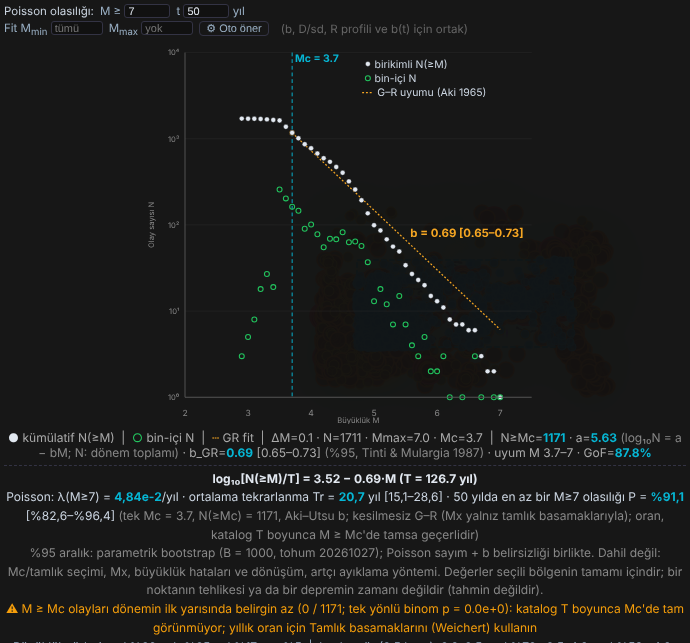
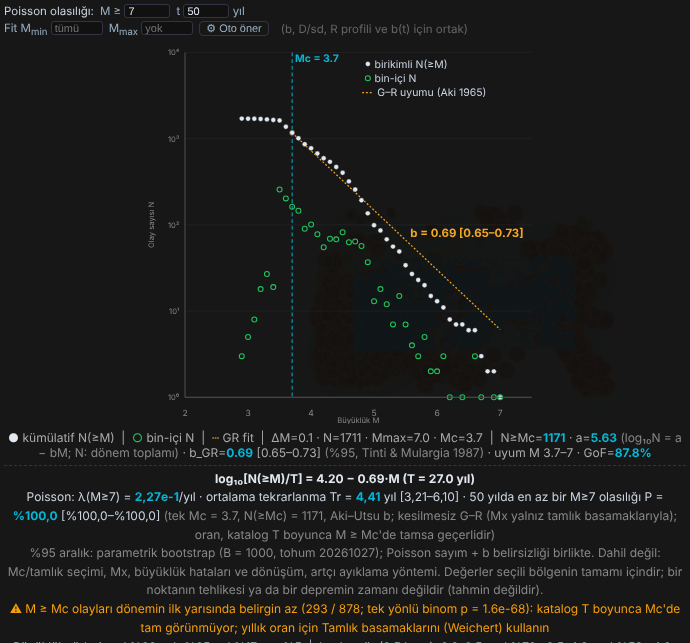
Poisson: GK74 uyarısı nötr metin; kapsama oranlarına Wilson %95 aralığı; kabul testi pencere düzeltmesine göre (32/32)
- GK74 kapalı uyarısı: bağımsız olay varsayımı daha az uygun olabilir; oran ve b birlikte değişir, olasılığın yönü önceden belli değil
- test_poisson_prob.js: kapsama oranları Wilson aralığıyla (%94,0 [89,8–96,5]; %95,5 [91,7–97,6]; Mc'de yalnız b %3,0 [1,4–6,4])
- kabul_poisson.js: önce = tarihsel-pencere-T; tek Mc T = 27,0 yıl; ilk yarı boşken tamlık uyarısı
- RAPOR güncelleme 2: gözlenen/öngörülen karşılaştırması (tek Mc büyük M oranını abartıyor; öneri §4), atıf düzeltmesi

Claude-Session: https://claude.ai/code/session_01UNMkcWFv5QgcQmvZTMC63m

Changed region(s): [[0.0, 0.7154, 1.0, 0.8398], [0.0, 0.9331, 1.0, 0.9953]]

diff --git a/scripts/test_poisson_prob.js b/scripts/test_poisson_prob.js
@@ -22,6 +22,8 @@ const X = ctx;
 let pass = 0, fail = 0;
 const ok = (c, m) => { if (c) pass++; else fail++; console.log((c ? '  ok  ' : '  !!  ') + m); };
 const near = (a, b, tol) => Math.abs(a - b) <= tol;
+// Kapsama oranının kendi %95 aralığı (Wilson): k / R deneme
+const wilson = (k, R) => { const z = 1.96, p = k / R, d = 1 + z * z / R, c = (p + z * z / (2 * R)) / d, h = z * Math.sqrt(p * (1 - p) / R + z * z / (4 * R * R)) / d; return `%${(100 * p).toFixed(1)} [%${(100 * (c - h)).toFixed(1)}–%${(100 * (c + h)).toFixed(1)}]`; };
 
 console.log('\n1. Analitik');
 ok(near(X.grPoissonP(0.01, 50), 1 - Math.exp(-0.5), 1e-15), `λ = 0,01/yıl, t = 50 → P = ${X.grPoissonP(0.01, 50).toFixed(6)} (1 − e^−0,5 = 0,393469)`);
@@ -60,7 +62,7 @@ console.log('\n3. Sentetik katalog — tek Mc (λ0 = 2/yıl, M ≥ 3,0; b = 1; T
   }
   const mLog = est.reduce((a, v) => a + v, 0) / R, mP = pe.reduce((a, v) => a + v, 0) / R;
   console.log(`     gerçek λ(≥6) = ${lamTrue.toExponential(3)}/yıl, P(50) = ${pTrue.toFixed(4)}; kestirim: ortalama log10 λ = ${mLog.toFixed(3)} (gerçek ${Math.log10(lamTrue).toFixed(3)}), ortalama P = ${mP.toFixed(4)}`);
-  console.log(`     bootstrap %95 kapsaması (${R} katalog): λ ${(100 * cov / R).toFixed(1)}%, P ${(100 * covP / R).toFixed(1)}%`);
+  console.log(`     bootstrap %95 kapsaması (${R} katalog, her biri B = 400; köşeli parantez: kapsama oranının Wilson %95 aralığı): λ ${wilson(cov, R)}, P ${wilson(covP, R)}`);
   ok(Math.abs(mLog - Math.log10(lamTrue)) < 0.05, 'λ(≥6) log ölçekte yansız (|fark| < 0,05)');
   ok(cov / R >= 0.90 && cov / R <= 0.99 && covP / R >= 0.90 && covP / R <= 0.99, 'bootstrap aralığı nominal %95 kapsamaya yakın (%90–99)');
   // Yalnız b'nin ±1,96σ aralığı (sayım belirsizliği yok): M = 6'da (3 birim dışdeğerleme) b baskındır; Mc'de (M = 3,0) b aralığı tek noktaya çöker, yalnız sayım belirsizliği kalır.
@@ -72,7 +74,7 @@ console.log('\n3. Sentetik katalog — tek Mc (λ0 = 2/yıl, M ≥ 3,0; b = 1; T
     if (l6 <= lamTrue && lamTrue <= h6) covB6++; if (l35 <= lamTrue2 && lamTrue2 <= h35) covB35++;
     const ci = X.grPoissonBootSimple(n, T, bh, Mc, dm, M2, t, { B: 400, seed: 3000 + r }); if (ci.lamLo <= lamTrue2 && lamTrue2 <= ci.lamHi) covBoot35++;
   }
-  console.log(`     yalnız b aralığı kapsaması: M ≥ 6 → ${(100 * covB6 / R).toFixed(1)}% (b baskın); M ≥ 3,0 (= Mc) → ${(100 * covB35 / R).toFixed(1)}%; ortak bootstrap M ≥ 3,0 → ${(100 * covBoot35 / R).toFixed(1)}%`);
+  console.log(`     yalnız b aralığı kapsaması: M ≥ 6 → ${wilson(covB6, R)} (b baskın); M ≥ 3,0 (= Mc) → ${wilson(covB35, R)}; ortak bootstrap M ≥ 3,0 → ${wilson(covBoot35, R)}`);
   ok(covB35 / R < 0.85 && covBoot35 / R >= 0.90, 'Mc düzeyinde yalnız b aralığı sayım belirsizliğini kaçırır; sayım bileşenli bootstrap nominale yakın (ChatGPT notu: b aralığı tek başına yetmez)'); }
 
 console.log('\n4. Sentetik katalog — Weichert, değişken tamlık (M ≥ 3: son 30 yıl; M ≥ 4: 80 yıl; M ≥ 5: 200 yıl; λ(≥3) = 5/yıl; b = 1)');
@@ -88,7 +90,7 @@ console.log('\n4. Sentetik katalog — Weichert, değişken tamlık (M ≥ 3: so
     est.push(Math.log10(lam)); if (ci.lamLo <= lamTrue && lamTrue <= ci.lamHi) cov++; if (ci.pLo <= pTrue && pTrue <= ci.pHi) covP++;
   }
   const mLog = est.reduce((a, v) => a + v, 0) / est.length;
-  console.log(`     gerçek λ(≥6,5) = ${lamTrue.toExponential(3)}/yıl, P(50) = ${pTrue.toFixed(4)}; ortalama log10 λ = ${mLog.toFixed(3)} (gerçek ${Math.log10(lamTrue).toFixed(3)}); kapsama λ ${(100 * cov / R).toFixed(1)}%, P ${(100 * covP / R).toFixed(1)}%`);
+  console.log(`     gerçek λ(≥6,5) = ${lamTrue.toExponential(3)}/yıl, P(50) = ${pTrue.toFixed(4)}; ortalama log10 λ = ${mLog.toFixed(3)} (gerçek ${Math.log10(lamTrue).toFixed(3)}); kapsama (${R} katalog, B = 400) λ ${wilson(cov, R)}, P ${wilson(covP, R)}`);
   ok(Math.abs(mLog - Math.log10(lamTrue)) < 0.05, 'Weichert λ(≥6,5) log ölçekte yansız');
   ok(cov / R >= 0.90 && cov / R <= 0.99 && covP / R >= 0.90 && covP / R <= 0.99, 'Weichert bootstrap aralığı nominal %95 kapsamaya yakın (%90–99)'); }
 

diff --git a/analysis/poisson_olasilik/kabul_poisson.js b/analysis/poisson_olasilik/kabul_poisson.js
@@ -66,6 +66,8 @@ const ADIM = [   // [ad, işlem]
   ['weichert_gk74kapali', async p => p.evaluate(async () => { await __gk(false); })],
   ['weichert_mx75_M7', async p => p.evaluate(() => { __set('grMx', '7.5'); })],
   ['weichert_mx75_M8', async p => p.evaluate(() => { __set('grPM', '8'); })],
+  // Tamlık denetimi: pencerenin ilk yarısı boşsa uyarı (seçili pencere 1971–1997 iken 1900'den başlatılmış gibi; yalnız test için)
+  ['tekMc_ilkYariBos', async p => p.evaluate(() => { __cs(false); __set('grMx', ''); __set('grPM', '7'); regionWindowStart = new Date('1900-01-01T00:00:00Z'); renderTimeMag([...events, ...liveEvents]); })],
 ];
 const GORUNTU = { tekMc_gk74kapali: 'poisson_tekMc_gk74kapali.png', tekMc_gk74acik: 'poisson_tekMc_gk74acik.png', weichert_gk74kapali: 'poisson_weichert.png', weichert_mx75_M8: 'poisson_weichert_mx.png' };
 (async () => {
@@ -85,7 +87,7 @@ const GORUNTU = { tekMc_gk74kapali: 'poisson_tekMc_gk74kapali.png', tekMc_gk74ac
   }
   const O = S.once, Y = S.sonra;
   // (1) mevcut çıktılar değişmedi
-  for (const [k] of ADIM) {
+  for (const [k] of ADIM.filter(([k]) => k !== 'tekMc_ilkYariBos')) {
     // Beklenen tek metin farkı: tek Mc panelinde a'nın tanımı (Ham modda değer aynı, yalnız tanım eklendi)
     const ETIKET = ' (log₁₀N = a − bM; N: dönem toplamı)', yM = Y[k].metin.replace(ETIKET, '');
     const sv = O[k].svg === Y[k].svg, mt = O[k].metin === yM;
@@ -108,6 +110,12 @@ const GORUNTU = { tekMc_gk74kapali: 'poisson_tekMc_gk74kapali.png', tekMc_gk74ac
     ok(q && q.path === 'weichert' && same && y.pois.includes(`P = %${pct(P(lam, q.t))}`),
       `(2) ${k}: λ(≥${q.M}) = ${lam === 0 ? '0' : lam.toExponential(3)}/yıl = panel en iyi tahmin eğrisi (lastGrFit.fnBest)${q.mx !== null ? `, Mx = ${q.mx}` : ''}; P = %${pct(P(lam, q.t))} ekranda; b = ${q.b.toFixed(3)}, m₀ = ${q.m0}`);
   }
+  // Tarihsel pencere (tarihsel-pencere-T düzeltmesiyle): tek Mc T = seçili pencere
+  ok(Math.abs(Y.tekMc_gk74kapali.pois_n.T - 27) < 0.01 && /T = 27\.0 yıl/.test(Y.tekMc_gk74kapali.pois), `(2) Tek Mc T = ${Y.tekMc_gk74kapali.pois_n.T.toFixed(3)} yıl = seçili pencere ISC 1971–1997 (düzeltme öncesi 126,7)`);
+  { const w = s => (s.match(/ilk yarısında belirgin az \(([^)]*)\)/) || [null, null])[1];
+    const a = Y.tekMc_gk74kapali, z = Y.tekMc_ilkYariBos;
+    ok(/ilk yarısında belirgin az \(0 \/ /.test(z.pois), `(2) İlk yarı boş (T 1900'den): tamlık uyarısı "${w(z.pois)}"`);
+    console.log(`     Seçili pencerede (1971–1997) tamlık denetimi: ${w(a.pois) ? 'uyarı "' + w(a.pois) + '" (ISC 1971–1984 dönemi M ≥ Mc = 3,7 için eksik)' : 'uyarı yok'}`); }
   // (3) girdiler
   ok(Y.tekMc_gk74kapali.pois_n.M === 7 && Y.tekMc_gk74kapali.pois_n.t === 50, '(3) Varsayılan M ≥ 7, t = 50 yıl');
   ok(Y.tekMc_M6_t75.pois_n.M === 6 && Y.tekMc_M6_t75.pois_n.t === 75 && /pm=6/.test(Y.tekMc_M6_t75.url) && /pt=75/.test(Y.tekMc_M6_t75.url), `(3) M = 6, t = 75 girdisi uygulandı ve URL'ye yazıldı (${Y.tekMc_M6_t75.url.match(/p[mt]=[^&]*/g).join(', ')})`);

diff --git a/index.html b/index.html
@@ -3691,7 +3691,7 @@ function renderGutenbergRichter(evList, Mc) {
       const { M: pM, t: pT } = grPoisInputs(), g = lastGrSimple, aT = g.a - Math.log10(Tp);
       const lam = grLambdaSimple(g.n, Tp, g.b, g.mc, pM), ci = grPoissonBootSimple(g.n, Tp, g.b, g.mc, tmMagDM, pM, pT);
       const warns = [];
-      if (!(typeof regionDeclusterOn !== 'undefined' && regionDeclusterOn && regionRect)) warns.push('GK74 artçı ayıklama kapalı: Poisson modeli bağımsız ana şokları varsayar; artçılar oranı ve olasılığı olduğundan yüksek gösterebilir');
+      if (!(typeof regionDeclusterOn !== 'undefined' && regionDeclusterOn && regionRect)) warns.push('GK74 artçı ayıklama kapalı: Poisson modelinin bağımsız olay varsayımı daha az uygun olabilir; ayıklamanın oran ve b üzerindeki etkisi veri kümesine göre değişir (ikisi birlikte değişir, olasılığın yönü önceden belli değildir)');
       const hs = grHalfSplitTest(evList.filter(e => (e.mw ?? e.mag) >= g.mc - 1e-9).map(e => +new Date(e.time)).filter(Number.isFinite), tP0, tP1);
       if (hs.n >= 10 && hs.p < GR_POIS.halfAlpha) warns.push(`M ≥ Mc olayları dönemin ilk yarısında belirgin az (${hs.n1} / ${hs.n2}; tek yönlü binom p = ${hs.p < 1e-4 ? hs.p.toExponential(1) : hs.p.toFixed(4)}): katalog T boyunca Mc'de tam görünmüyor; yıllık oran için Tamlık basamaklarını (Weichert) kullanın`);
       lastGrPois = { path: 'tekMc', lam, ci, M: pM, t: pT, T: Tp, n: g.n, b: g.b, mc: g.mc, warns: warns.slice() };
@@ -6069,7 +6069,7 @@ function renderGutenbergRichterCS(cs) {
     const lamOf = f => grLambdaWeichert(rateGE(f.rate0, f.beta, Mx, clsBest), f.beta, m0, pM, Mx);
     const lam = lamOf(wf), ci = grPoissonBootWeichert(clsBest, wf, lamOf, pT), aW = Math.log10(rate0Best) + wf.b * m0;
     const warns = [];
-    if (!(typeof regionDeclusterOn !== 'undefined' && regionDeclusterOn && regionRect)) warns.push('GK74 artçı ayıklama kapalı: Poisson modeli bağımsız ana şokları varsayar; artçılar oranı ve olasılığı olduğundan yüksek gösterebilir');
+    if (!(typeof regionDeclusterOn !== 'undefined' && regionDeclusterOn && regionRect)) warns.push('GK74 artçı ayıklama kapalı: Poisson modelinin bağımsız olay varsayımı daha az uygun olabilir; ayıklamanın oran ve b üzerindeki etkisi veri kümesine göre değişir (ikisi birlikte değişir, olasılığın yönü önceden belli değildir)');
     if (fitOn && (pM < m0 - 1e-9)) warns.push(`M ≥ ${pM} fit aralığının (M ${m0.toFixed(1)}–${mTopFit.toFixed(1)}) altında`);
     lastGrPois = { path: 'weichert', lam, ci, M: pM, t: pT, mx: Mx, m0, rate0: rate0Best, b: wf.b, warns: warns.slice() };
     poisHtml = grPoissonHtml({ eq: Mx === null ? `log₁₀λ(≥M) = ${aW.toFixed(2)} − ${wf.b.toFixed(2)}·M (Weichert; λ: yıllık oran)` : `λ(≥M) = λ₀·[e^(−β(M−m₀)) − e^(−β(Mx−m₀))]/[1 − e^(−β(Mx−m₀))], Mx = ${Mx} (kesik G–R; Mx'ten uzakta log₁₀λ ≈ ${aW.toFixed(2)} − ${wf.b.toFixed(2)}·M)`,

diff --git a/analysis/poisson_olasilik/RAPOR.md b/analysis/poisson_olasilik/RAPOR.md
@@ -1,70 +1,89 @@
-# Poisson aşılma olasılığı — doğrulama raporu (2026-10-27)
+# Poisson aşılma olasılığı — doğrulama raporu (2026-10-27, güncelleme 2)
 
-Dal: `bolge-karsilastirma-a-etiketi` (main'e birleştirilmedi; canlıya yayımlanmadı).
+**Dal:** `bolge-karsilastirma-a-etiketi`. Bu dal, tarihsel pencere düzeltmesini (`tarihsel-pencere-T`, 17ca240) içerir. `main`'e birleştirilmedi, canlıya yayımlanmadı.
+
+**Güncelleme 2'de değişenler:**
+- Tarihsel pencere düzeltmesi dala birleştirildi.
+- GK74 uyarı metni nötr hale getirildi.
+- Kapsama oranlarına Wilson %95 aralığı ve test parametreleri eklendi.
+- Kabul testinin "önce" sayfası artık `tarihsel-pencere-T`. Böylece yalnızca Poisson değişikliği karşılaştırılıyor.
+- Gözlenen ve öngörülen sayılar karşılaştırıldı (§4).
 
 ## 1. Ne eklendi
-
-G–R panelinin altına, iki yolda da, bir Poisson satırı eklendi:
 
 | Öğe | Tek Mc (Aki–Utsu) | Tamlık basamakları (Weichert 1980) |
 |---|---|---|
 | Denklem | log₁₀[N(≥M)/T] = a_T − b·M | log₁₀λ(≥M) = a − b·M; Mx girildiyse kesik G–R (Eş. 14) |
-| λ(≥M) | N(≥Mc)/T · 10^(−b(M−Mc)) | panelin en iyi tahmin eğrisi (`rateGE` + `curveFn`), aynı fonksiyon |
+| λ(≥M) | N(≥Mc)/T · 10^(−b(M−Mc)) | panelin en iyi tahmin eğrisi (`rateGE` + `curveFn`) |
 | P(t), Tr | P = 1 − e^(−λt) (`expm1`), Tr = 1/λ | aynı |
-| Mx | uygulanmaz (kesilmesiz) | panel girdisi; M ≥ Mx → λ = 0 |
-| %95 aralık | parametrik bootstrap: n* ~ Poisson(n), büyüklükler β̂ ile, b* = Aki–Utsu | n_i* ~ Poisson(beklenen n_i), Weichert yeniden fit |
+| T | seçili analiz penceresi; tarihsel modda seçili tarihsel pencere(ler) | tamlık dönemleri (aynı pencere sonuyla) |
+| %95 aralık | parametrik bootstrap: n* ~ Poisson(n); büyüklükler β̂ ile; b* Aki–Utsu ile | n_i* ~ Poisson(beklenen n_i); Weichert yeniden fit |
 
-- Girdiler: M ≥ (varsayılan 7,0) ve t (varsayılan 50 yıl). İkisi de URL'ye yazılır (`pm`, `pt`).
+**Ayarlar ve girdiler:**
 - Bootstrap: B = 1000, tohum 20261027, tekrarlanabilir.
+- Girdiler: M ≥ (varsayılan 7,0) ve t (varsayılan 50 yıl). İkisi de URL'ye yazılır (`pm`, `pt`).
 
 **Uyarılar:**
-- GK74 kapalı.
-- M gözlenen en büyük büyüklüğün üstünde: ekstrapolasyon.
+- GK74 kapalı. Yeni metin: "Poisson modelinin bağımsız olay varsayımı daha az uygun olabilir; ayıklamanın oran ve b üzerindeki etkisi veri kümesine göre değişir (ikisi birlikte değişir, olasılığın yönü önceden belli değildir)".
+- Ekstrapolasyon: M gözlenen en büyük büyüklüğün üstünde.
 - M ≥ Mx.
-- M fit aralığının altında (Weichert).
-- Tek Mc'de tamlık denetimi: tek yönlü binom, M ≥ Mc olaylarının dönemin ilk yarısında az olması, p < 0,01.
+- M fit aralığının altında.
+- Tek Mc tamlık denetimi: dönemin ilk yarısında M ≥ Mc olayları az (tek yönlü binom testi, p < 0,01).
 
 **Metinde açıkça yazanlar:**
 - Belirsizlik kapsamı: Poisson sayımı ve b birlikte.
 - Kapsam dışı: Mc/tamlık seçimi, Mx, büyüklük hataları ve dönüşüm, artçı ayıklama yöntemi.
 - Değerler seçili bölgenin tamamı içindir; bir noktanın tehlikesi ya da bir depremin zamanı değildir.
 
-**Başka değişiklikler:**
-- Tek Mc panelinde `a`, gösterim moduna göre tanımıyla yazılıyor (Ham modda değer aynı).
-- Sayısal değerler `lastGrPois` değişkeninde tutuluyor (doğrulama için; gösterimi etkilemez).
-- Hesap yöntemlerine (b, Weichert, Mc, GK74) dokunulmadı.
+## 2. Birim testleri: `scripts/test_*.js`, 15/15
 
-## 2. Testler
+Yeni test `test_poisson_prob.js` (15 denetim).
 
-**Birim testleri** (`scripts/test_*.js`): 15/15 geçti. 14 eski test ve 1 yeni test (`test_poisson_prob.js`, 15 denetim).
+**Analitik ve tutarlılık:**
+- λ = 0,01 ve t = 50 → P = 0,393469 (= 1 − e^−0,5).
+- λ = 1e−12 → P ≈ λt.
+- t = Tr → P = 0,632.
+- Tek Mc'de λ = 10^(a−bM)/T (göreli fark 1e−15).
+- Weichert'te λ = panel eğrisi, kesilmesiz ve Mx = 7,5 iken (fark 0).
 
-| Denetim | Sonuç |
+**Sentetik katalog parametreleri:**
+
+| Deney | Gerçek model | Katalog | Hedef |
+|---|---|---|---|
+| A: tek Mc | λ(≥3,0) = 2/yıl, b = 1, ΔM = 0,1 | T = 60 yıl, 200 katalog, her biri B = 400 | λ(≥6), P(50 yıl) |
+| B: Weichert | λ(≥3,0) = 5/yıl, b = 1, ΔM = 0,1; tamlık M ≥ 3 son 30 yıl, M ≥ 4 80 yıl, M ≥ 5 200 yıl | 200 katalog, B = 400 | λ(≥6,5), P(50 yıl) |
+
+**Sonuçlar** (köşeli parantez: kapsama oranının Wilson %95 aralığı, 200 katalog):
+
+| Ölçüt | Sonuç |
 |---|---|
-| Analitik: λ = 0,01, t = 50 → P = 0,393469 = 1 − e^−0,5; λ = 1e−12'de P ≈ λt (expm1); t = Tr → P = 0,632 | geçti |
-| Tek Mc λ = 10^(a−bM)/T (panel a ile) | göreli fark 1,3e−15 |
-| Weichert λ = panel eğrisi (kesilmesiz ve Mx = 7,5) | fark 0 |
-| Sentetik, tek Mc (λ₀ = 2/yıl, b = 1, T = 60 yıl, 200 katalog): log₁₀λ(≥6) ortalaması | −2,722 (gerçek −2,699) |
-| Aynı katalog: bootstrap %95 kapsaması, λ ve P | %94,0 / %94,0 |
-| Sentetik, Weichert (3 tamlık basamağı, 200 katalog): log₁₀λ(≥6,5) ortalaması | −2,788 (gerçek −2,801) |
-| Aynı katalog: bootstrap %95 kapsaması | %95,5 |
-| Yalnız b'nin ±1,96σ aralığı: M = 6'da / M = Mc'de | %96 / **%3** |
-| Aynı karşılaştırmada ortak bootstrap, M = Mc'de | %96,5 |
-| Binom tamlık denetimi: kesin değer 1/1024; tekdüze katalog → uyarı yok; başı eksik katalog → uyarı | geçti |
+| A: log₁₀λ(≥6) ortalaması | −2,722 (gerçek −2,699) |
+| A: bootstrap kapsaması, λ ve P | %94,0 [%89,8–%96,5] |
+| B: log₁₀λ(≥6,5) ortalaması | −2,788 (gerçek −2,801) |
+| B: bootstrap kapsaması, λ ve P | %95,5 [%91,7–%97,6] |
+| A: yalnız b ±1,96σ aralığı, M = 6 | %96,0 [%92,3–%98,0] |
+| A: yalnız b ±1,96σ aralığı, M = Mc | **%3,0 [%1,4–%6,4]** |
+| A: ortak bootstrap, M = Mc | %96,5 [%93,0–%98,3] |
 
-Yalnız b aralığıyla ilgili satırın anlamı: Mc'den uzakta b belirsizliği baskın olduğu için yalnız b aralığı yeterli kapsıyor. Mc yakınında ise sayım belirsizliği baskındır ve yalnız b aralığı bunu kaçırır. ChatGPT'nin "b aralığı tek başına yetmez" notu nicel olarak doğrulandı.
+Üç bootstrap kapsamasının da aralığı %95'i içeriyor. Yalnız b'ye dayalı aralık Mc'den uzakta yeterli, ama Mc yakınında sayım belirsizliğini kaçırıyor.
 
-**Tarayıcı kabul testi** (`kabul_poisson.js`): 30/30 geçti.
-- Senaryo: Türkiye modu, ISC 1971–1997, dikdörtgen bölge 36–42° K / 26–45° D.
-- Önce = `main` 543ac56, sonra = bu dal.
+Kapsam sınırı: Bu deneylerde model doğrudur. Yani G–R, Poisson, bilinen tamlık ve hatasız büyüklük varsayılıyor. Gerçek kataloglardaki tamlık hatası, büyüklük hatası ve kümelenme bu kapsamaya dahil değildir (§4).
+
+## 3. Tarayıcı kabul testi: `kabul_poisson.js`, 32/32
+
+- Senaryo: Türkiye modu, ISC 1971–1997, dikdörtgen 36–42° K / 26–45° D.
+- Önce: `tarihsel-pencere-T` (main + pencere düzeltmesi). Sonra: bu dal.
 
 | Koşul | Sonuç |
 |---|---|
-| (1) G–R grafiği (SVG) önce = sonra, 8 senaryoda | aynı |
-| (1) Poisson satırı ve a tanımı dışındaki metin önce = sonra (tek Mc / Weichert; GK74 açık/kapalı; Mx boş/7,5) | aynı |
-| (2) λ bağımsız yeniden hesapla aynı; ekrandaki P yüzdesi 1 − e^(−λt) ile aynı | tek Mc fark ≤ 1e−16; Weichert = `lastGrFit.fnBest` |
-| (3) Varsayılan M = 7, t = 50; girdi değişince güncelleniyor ve URL'ye yazılıyor | geçti |
-| (4) GK74 uyarısı kapalıyken var, açıkken yok; M = 8,5 ekstrapolasyon; Mx = 7,5 ve M = 8 → λ = 0, P = %0,0 | geçti |
-| (5) Bölge bütünü / tahmin değildir notu ve belirsizlik kapsamı iki yolda da var | geçti |
+| (1) G–R grafiği ve Poisson satırı dışındaki metin önce = sonra (8 senaryo) | aynı; tek fark a'nın tanımı (değeri aynı) |
+| (2) Tek Mc λ = N(≥Mc)/T·10^(−b(M−Mc)) | göreli fark ≤ 2e−16; T = 27,001 yıl (seçili pencere) |
+| (2) Weichert λ = `lastGrFit.fnBest` | birebir; Mx = 7,5 ve M = 8 → λ = 0 |
+| (2) Ekrandaki P yüzdesi 1 − e^(−λt) ile aynı | aynı |
+| (2) Pencerenin ilk yarısı boşken tamlık uyarısı | "0 / 2200; p = 0" (benzetim: T 1900'den) |
+| (3) Varsayılan M = 7, t = 50; girdi URL'ye yazılıyor | geçti |
+| (4) GK74 uyarısı kapalıyken var, açıkken yok; ekstrapolasyon; M ≥ Mx | geçti |
+| (5) Bölge bütünü / tahmin değildir notu ve belirsizlik kapsamı | iki yolda da var |
 | Sayfa hatası | 0 |
 
 Ekran görüntüleri:
@@ -73,73 +92,57 @@ Ekran görüntüleri:
 - `poisson_weichert.png`
 - `poisson_weichert_mx.png`
 
-## 3. Bulunan mevcut hata — tarihsel modda analiz penceresi (bu dalda düzeltilmedi; onay gerekir)
+## 4. Gözlenen ve öngörülen sayılar (aynı senaryo, T = 27 yıl)
 
-### Sorun
+| | Gözlenen (1971–1997) | Tek Mc (Mc = 3,7, b = 0,77) | Weichert (b = 0,947) |
+|---|---|---|---|
+| N(M ≥ 6) / yıl | 13 olay → 0,48 | 1,36 | — |
+| N(M ≥ 7) / yıl | 1 olay (1976 Çaldıran, Mw 7,0) → 0,037 [Poisson %95: 0,0009–0,21] | 0,23 [0,18–0,29] | 0,097 |
+| P(50 yıl, M ≥ 7) | — | %100,0 | %99,2 |
 
-Tarihsel katalog modunda bölge sorgusu analiz penceresini tüm katalogdan alıyor (`index.html` ~8724):
-`regionWindowStart/End = historicalCache.starttime/endtime`, yani 1900-01-01 → 2026-09-14.
-Seçili pencere ise ISC 1971–1997.
+**Tek Mc yolu bu katalogda büyük M oranını açıkça abartıyor.** M ≥ 6 için öngörü gözlenenin yaklaşık 2,8 katı. Nedenleri:
+- Katalog Mc = 3,7'de 1971–1997 boyunca tam değil. Tamlık uyarısı bunu gösteriyor: ilk yarıda 498 / 1702 olay, p = 1,6e−153.
+- Bu yüzden b = 0,77 düşük çıkıyor.
 
-Bu hata main'de de var. Etkilediği yerler:
-- Weichert basamaklarının son dönem sonu (`csBuild` tEnd, ~5058);
-- Oran/Yoğunluk modu T'si (~3540);
-- Bölge karşılaştırması T'si (~3341);
-- bölge bilgi satırındaki yıllık oran (~8446) ve pencere etiketi.
+Panel bu durumda uyarı verip Weichert'i öneriyor. Ancak öngörülen değer yine de ekranda görünüyor.
 
-### Ölçülen etki (yukarıdaki senaryo)
+Weichert öngörüsü (0,097/yıl) tek olayın Poisson aralığı içinde kalıyor. Yine de bu aralık çok geniş; 27 yıllık bir pencere M ≥ 7 oranını sınamaya yetmez.
 
-| Çıktı | Mevcut (pencere 1900–2026) | Doğru pencere (1971–1998) |
-|---|---|---|
-| Weichert son dönem | 1985 → 2026-09-14, M ≥ 4,0 | 1985 → 1998 |
-| Weichert b | 0,805 | **0,947** |
-| Weichert λ(≥4) | 25,2/yıl | **67,3/yıl** |
-| Weichert λ(≥7), P(50 yıl) | 0,0967/yıl, %99,2 | 0,0969/yıl, %99,2 (b ve oranın etkileri burada rastlantısal olarak dengeleniyor) |
-| Tek Mc T | 126,7 yıl | 27,0 yıl |
-| Tek Mc λ(≥7) | 0,049/yıl | 0,228/yıl |
+Öneri (karar sizde): Poisson satırına "gözlenen N(≥M) ile öngörülen λT" karşılaştırmasını ve bunun Poisson p değerini eklemek. Ayrıca tek Mc tamlık uyarısı varken P değerini soluk göstermek ya da gizlemek. Bu, ChatGPT'nin "yanlış oranı doğruymuş gibi sunmamalı" koşulunu veri düzeyinde de karşılar.
 
-Yeni tamlık denetimi bu durumu kendiliğinden yakalıyor: "ilk yarıda 0 / 2200, p ≈ 0" uyarısı (`poisson_tekMc_gk74kapali.png`).
-
-### Önerilen düzeltme
-
-- `rebuildHistoricalView` içinde seçili pencerenin `overallStart`/`endRef` değerleri saklanır.
-- Bölge sorgusunda `regionWindowStart/End` bu değerlerden alınır.
-
-Bu, mevcut Weichert/oran çıktılarını değiştirir. Ayrı bir dalda, önce/sonra kabul testiyle ve onayınızla yapılmalı.
-
-## 4. Literatür ile karşılaştırma
+## 5. Literatür ile karşılaştırma
 
 ### Michael & Llenos (2026), BSSA 116(2), 786–809, doi:10.1785/0120240245
 
 Yöntemleri:
-- Dönem başına oranı Poisson olabilirliğinden L(λ|N) = e^(−λ)λ^N/N! çekiyorlar.
+- Dönem başına oranı Poisson olabilirliğinden çekiyorlar.
 - b'yi N(b, σ_b)'den çekiyorlar (3σ'da kırpılmış, 0 < b < 1,5).
-- Mc'yi tek yönlü normal gürültüyle örnekliyorlar (σ = 0,2, yalnız artış).
-- Büyüklük hatalarını Rhoades yöntemiyle ekliyorlar: M* = M_est − βσ_m²/2, sonra N(M*, σ_m).
+- Mc'yi tek yönlü normal gürültüyle örnekliyorlar (σ = 0,2).
+- Büyüklük hatalarını Rhoades yöntemiyle ekliyorlar: M* = M_est − βσ_m²/2.
 
 EQ-Live ile ilişkisi:
 - EQ-Live'ın sayım + b bootstrap'ı ilk iki bileşenle aynı mantıkta.
-- Mc ve büyüklük hatası bileşenleri bizde "dahil değil" olarak yazıldı. Sıradaki doğal genişleme bunlar.
+- Mc ve büyüklük hatası bileşenleri bizde "dahil değil" olarak yazıldı; sıradaki genişleme bunlar.
 
-İki önemli not:
-- **(a)** Dönem birleştirmede süre ağırlığı öneriyorlar (Felzer 2008). Weichert'in düşük Mc'li yakın dönemlere yüksek ağırlık verdiğini belirtiyorlar (s. 806). ChatGPT koşulu 2 (değişken tamlıkta λ'yı Weichert'ten al) geçerli bir seçim, ama tek seçenek değil.
-- **(b)** Oranı artçılar dahil tam katalogdan alıyorlar. GK74'ün b'yi düşürdüğünü (Llenos & Michael 2020) ve Poisson varsayımının her iki seçenekte de yüksek olasılıklarda tehlikeyi abartabileceğini belirtiyorlar (s. 788, 807).
+Diğer notlar:
+- Dönem birleştirmede Weichert yerine süre ağırlığını tartışıyorlar (s. 806).
+- Oranı artçılar dahil tam katalogdan alıyorlar; GK74'ün b'yi düşürdüğünü belirtiyorlar (s. 788, 807).
+- GK74 metninin nötr hale getirilmesi bununla ve kendi verimizle tutarlı. Türkiye senaryosunda GK74 açılınca λ(≥7) 0,228'den 0,227'ye iniyor: N yarıya düşüyor, ama b de 0,77'den 0,69'a düşüyor.
 
-Buna göre GK74 uyarısının metni "kapalı = yanlış" değil, "iki seçeneğin de yanlılığı var" biçiminde yumuşatılabilir. Bu bir metin kararıdır; onayınıza bırakıldı.
+### Dutilleul, P., Genest, C. & Peng, R. (2024), GJI 236(3), 1601–1608, doi:10.1093/gji/ggae003
 
-### Dutilleul, Genest & Peng (2024), GJI 236, 1601–1608, doi:10.1093/gji/ggae003
+- Konu: ETAS parametreleri için parametrik bootstrap. Dar pencerelerde asimptotik (Hessian) aralıklar yanıltıcı olabiliyor.
+- Uygunluk: model farklı (ETAS, G–R/Weichert değil). Ortak olan yöntem: uydurulan modelden katalog benzetimi, yeniden kestirim ve kapsamanın sentetik deneyle sınanması (§2).
+- EQ-Live'daki bootstrap bağımsız olaylar varsayar; ETAS'taki kümelenme bileşeni yoktur.
+- Not: önceki ChatGPT notundaki "Holschneider ve diğerleri" atfı yanlış; yazarlar burada yazıldığı gibidir.
 
-ETAS parametreleri için parametrik bootstrap: dar pencerelerde asimptotik (Hessian) aralıklar yanıltıcı olabiliyor, bootstrap güvenilir alternatif. Model farklı (ETAS, G–R değil). Yöntem gerekçesi ve kapsama denetimi yaklaşımı için atıf olarak uygun.
+### van der Elst (2021), JGR Solid Earth 126, e2020JB021027, doi:10.1029/2020JB021027
 
-Not: ChatGPT notundaki "Holschneider ve diğerleri" yanlış. PDF'teki yazarlar Dutilleul, Genest & Peng.
+b-positive yöntemi değişken tamlığa dayanıklıdır. §4'teki tamlık sorunu için b'ye bağımsız bir çapraz denetim olabilir. Öneri; kapsam dışı.
 
-### van der Elst (2021), JGR 126, e2020JB021027, doi:10.1029/2020JB021027
+## 6. Kapsam ve sınırlar
 
-b-positive, ardışık olayların pozitif büyüklük farklarını kullanır ve değişken tamlığa dayanıklıdır. Michael & Llenos b'yi bununla da hesaplıyor. EQ-Live'da b için bağımsız bir çapraz denetim olarak eklenebilir (öneri, kapsam dışı).
-
-## 5. Kapsam ve sınırlar
-
-- Poisson (zamandan bağımsız) varsayımı; artçı kümelenmesi ihlal eder.
+- Poisson (zamandan bağımsız) varsayımı kullanılıyor; artçı kümelenmesi bu varsayımı bozar.
 - Değerler bölge bütünü içindir; nokta tehlikesi, yer sarsıntısı ya da deprem tahmini değildir.
-- Tek Mc yolu kesilmesizdir; büyük M'de oranı abartabilir. Panelde ekstrapolasyon uyarısı var.
-- Tarihsel modda T, §3'teki hata düzeltilene kadar seçili pencereyi değil, tüm kataloğu kullanır.
+- Tek Mc yolu kesilmesizdir. Katalog Mc'de tam değilse büyük M oranını abartabilir (§4); panel bu durumda uyarır.
+- Bitişik olmayan tarihsel pencerelerde T aradaki boşluğu da içerir. Durum satırı bunu uyarır.
